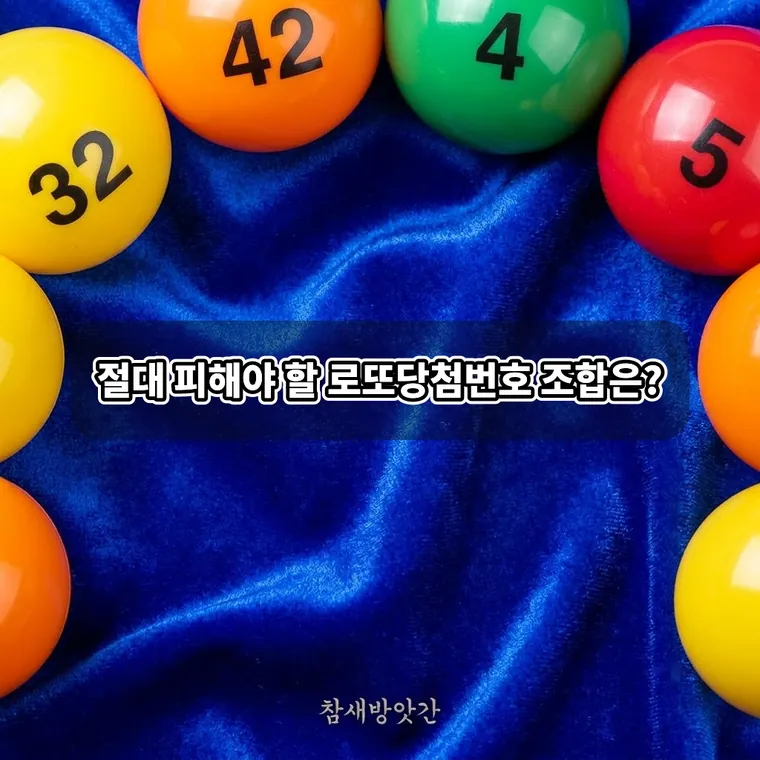
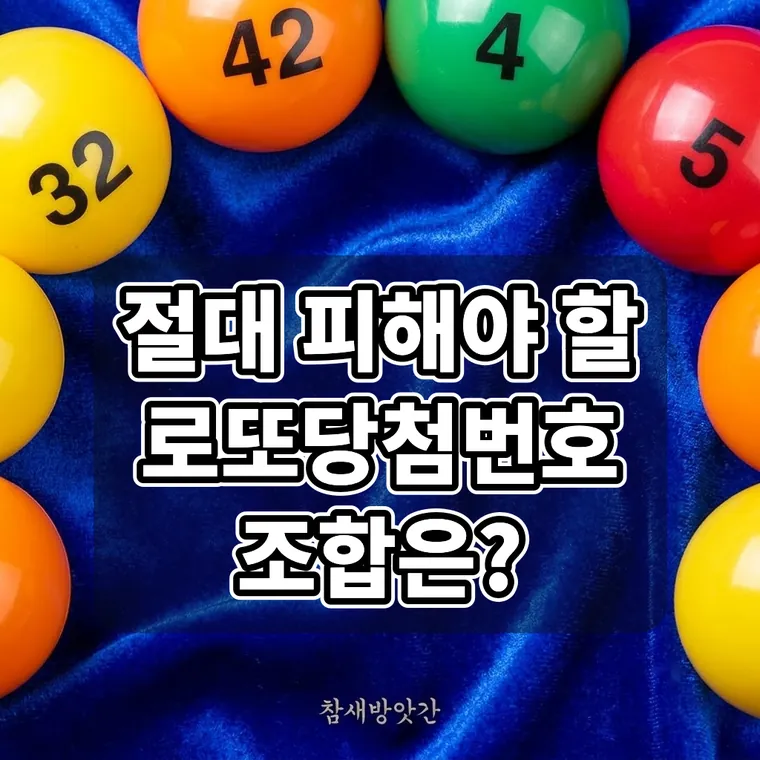
v74

diff --git a/guide-avoid.html b/guide-avoid.html
@@ -17,22 +17,22 @@ gtag('config', 'G-1M0D88PL01');
 <meta name="color-scheme" content="dark">
 <meta name="naver-site-verification" content="7ea0de7682fd50f2771c43ebd5a723369427b225" />
 <title>절대 피해야 할 로또 당첨 번호 조합과 비효율적인 선택 패턴 | 참새방앗간</title>
-<meta name="description" content="로또는 어떤 번호 조합이든 1등 확률이 같지만, 많은 사람이 고르는 조합은 당첨금을 나눠 갖게 됩니다. 1,245회 실제 데이터로 피해야 할 선택 패턴을 정리했습니다.">
+<meta name="description" content="모든 로또 번호 조합의 출현 확률은 같지만, 당첨금을 나눠 갖게 되는 불리한 선택 패턴이 있습니다. 연속 번호, 등차수열, 마킹 모양, 31 이하 숫자 조합을 정리했습니다.">
 <link rel="canonical" href="https://bangatgan.kr/guide-avoid.html">
 <meta property="og:type" content="article">
 <meta property="og:site_name" content="참새방앗간">
 <meta property="og:locale" content="ko_KR">
 <meta property="og:url" content="https://bangatgan.kr/guide-avoid.html">
 <meta property="og:title" content="절대 피해야 할 로또 당첨 번호 조합과 비효율적인 선택 패턴 | 참새방앗간">
-<meta property="og:description" content="로또는 어떤 번호 조합이든 1등 확률이 같지만, 많은 사람이 고르는 조합은 당첨금을 나눠 갖게 됩니다. 1,245회 실제 데이터로 피해야 할 선택 패턴을 정리했습니다.">
+<meta property="og:description" content="모든 로또 번호 조합의 출현 확률은 같지만, 당첨금을 나눠 갖게 되는 불리한 선택 패턴이 있습니다. 연속 번호, 등차수열, 마킹 모양, 31 이하 숫자 조합을 정리했습니다.">
 <meta property="og:image" content="https://bangatgan.kr/images/og-guide-avoid.jpg">
 <meta property="og:image:width" content="1200">
 <meta property="og:image:height" content="630">
 <meta name="twitter:card" content="summary_large_image">
 <link rel="preconnect" href="https://cdn.jsdelivr.net">
 <link rel="stylesheet" href="https://cdn.jsdelivr.net/gh/orioncactus/pretendard@v1.3.9/dist/web/variable/pretendardvariable-dynamic-subset.min.css">
-<link rel="stylesheet" href="assets/style.css?v=81">
-<script type="application/ld+json">{"@context": "https://schema.org", "@type": "FAQPage", "mainEntity": [{"@type": "Question", "name": "로또에서 절대 나오지 않는 번호 조합이 실제로 있나요?", "acceptedAnswer": {"@type": "Answer", "text": "없습니다. 6개 번호 조합은 모두 8,145,060분의 1로 확률이 같습니다. 1,245회 동안 1,2,3,4,5,6이 한 번도 나오지 않았지만, 특정 조합 하나가 1,245회 안에 나올 확률 자체가 약 0.015%라서 이상한 일이 아닙니다. 피해야 할 조합은 나오지 않는 조합이 아니라 당첨되면 나눠 갖는 사람이 많은 조합입니다."}}, {"@type": "Question", "name": "31 이하의 숫자만 고르면 왜 불리하다고 하나요?", "acceptedAnswer": {"@type": "Answer", "text": "생일이나 기념일을 쓰면 1부터 31까지만 고르게 되고, 32부터 45까지가 빠집니다. 31 이하로만 만들 수 있는 조합은 736,281개로 전체의 약 9.0%입니다. 이 사이트 데이터에서 262회부터 이런 회차는 판매액 1,000억원당 1등이 13.2게임으로, 나머지 회차의 12.2게임보다 약 8% 많았습니다. 차이가 작고 표본이 84회뿐이라 단정할 수는 없습니다."}}, {"@type": "Question", "name": "자동과 수동 중 어느 쪽이 당첨에 유리한가요?", "acceptedAnswer": {"@type": "Answer", "text": "당첨 확률은 같습니다. 다만 이 사이트 데이터에서 262회부터 1,245회까지 1등 9,312게임 중 수동은 30.9%였고, 1등이 63게임까지 나온 1128회는 수동이 52게임(82.5%)이었습니다. 수동 번호가 몰린 회차에서 상금을 나눠 갖는 사람이 크게 늘었다는 뜻일 뿐, 어떤 번호가 몰렸는지는 알 수 없습니다."}}, {"@type": "Question", "name": "한 번도 나오지 않은 조합이 다음에 나올 가능성이 높아지나요?", "acceptedAnswer": {"@type": "Answer", "text": "그렇지 않습니다. 로또 추첨은 매회 독립시행이라 지난 기록이 다음 추첨에 영향을 주지 않습니다. 오래 나오지 않았다고 나올 때가 된 것도 아니고, 자주 나왔다고 덜 나올 차례가 된 것도 아닙니다."}}]}</script>
+<link rel="stylesheet" href="assets/style.css?v=84">
+<script type="application/ld+json">{"@context": "https://schema.org", "@type": "FAQPage", "mainEntity": [{"@type": "Question", "name": "로또에서 절대 나오지 않는 번호 조합이 실제 존재하나요?", "acceptedAnswer": {"@type": "Answer", "text": "이론적으로 모든 6개 번호 조합이 추첨될 확률은 약 814만 분의 1로 완전히 동일합니다. 따라서 과학적으로 절대 나오지 않는 번호 조합은 존재하지 않지만, 당첨자가 몰려 상금이 줄어드는 비효율적인 조합은 존재합니다."}}, {"@type": "Question", "name": "수동 선택 시 31 이하의 숫자만 사용하는 것이 왜 불리한가요?", "acceptedAnswer": {"@type": "Answer", "text": "생일이나 기념일을 이용해 번호를 조합하면 32에서 45 사이의 숫자가 배제됩니다. 이 경우 번호의 선택 폭이 좁아질 뿐만 아니라, 많은 사람이 비슷한 번호를 선택해 당첨 시 상금을 나눠 가져야 하는 인원수가 늘어납니다."}}, {"@type": "Question", "name": "자동 번호 추출과 수동 번호 선택 중 어느 쪽이 당첨에 유리한가요?", "acceptedAnswer": {"@type": "Answer", "text": "당첨 확률 자체는 자동과 수동 모두 동일합니다. 다만 수동 선택 시 특정 패턴이나 기하학적 모양으로 마킹하면 중복 당첨 위험이 커지므로, 패턴 없이 균형 있게 조합하거나 자동 번호를 활용하는 것이 상금 유지 측면에서 유리할 수 있습니다."}}, {"@type": "Question", "name": "오랫동안 나오지 않은 번호 조합이 다음 회차에 나올 가능성이 높아지나요?", "acceptedAnswer": {"@type": "Answer", "text": "그렇지 않습니다. 각 회차의 추첨은 이전 회차와 완전히 독립된 확률적 사건이므로, 오랫동안 나오지 않았다고 해서 나올 때가 된 것은 아닙니다. 모든 조합의 확률은 약 814만 분의 1로 같습니다."}}]}</script>
 </head>
 <body data-section="info">
 <div class="wrap">
@@ -40,7 +40,7 @@ gtag('config', 'G-1M0D88PL01');
   <main>
     <h1 class="page-h">절대 피해야 할 로또 당첨 번호 조합과 비효율적인 선택 패턴</h1>
     <div class="pdate">2026.10.13 작성</div>
-    <p class="page-lead">로또는 어떤 조합이든 1등 확률이 8,145,060분의 1로 같습니다. 그래도 피하라는 조합이 있는 이유는 당첨됐을 때 상금을 나눠 갖는 사람이 늘어나기 때문입니다.</p>
+    <p class="page-lead">로또를 구매할 때 많은 사람이 자신만의 숫자나 특정 패턴을 활용해 번호를 선택합니다. 하지만 수학적 확률과 실제 당첨금 수령액 관점에서 볼 때 분명히 불리해지는 번호 선택 유형이 존재합니다.</p>
     <div class="card"><div class="prose">
 
       <figure class="fig">
@@ -48,82 +48,51 @@ gtag('config', 'G-1M0D88PL01');
              alt="피해야 할 로또 당첨번호 조합을 소개하는 안내 이미지">
       </figure>
 
-      <h3>확률은 같고, 달라지는 것은 상금입니다</h3>
-      <p>로또 1등은 6개 번호를 모두 맞힌 게임이 당첨금을 <b>나눠 갖습니다</b>. 같은 번호를 고른 게임이 많으면 한 게임이 받는 돈이 줄어듭니다. 당첨 확률은 그대로이고 상금만 달라집니다.</p>
-      <table class="t">
-        <thead><tr><th>회차</th><th>1등 게임 수</th><th>1게임당 당첨금</th></tr></thead>
-        <tbody>
-          <tr><td>1245회 (2026.10.10)</td><td>10게임</td><td>3,006,515,775원</td></tr>
-          <tr><td>1019회 (2022.06.11)</td><td>50게임</td><td>438,565,140원</td></tr>
-          <tr><td>1128회 (2024.07.13)</td><td><b>63게임</b></td><td><b>419,925,560원</b></td></tr>
-        </tbody>
-      </table>
-      <p>1128회는 1등이 역대 가장 많은 63게임이 나와 1게임당 약 4억 2천만원을 받았습니다. 1245회는 10게임이라 1게임당 30억원이 넘었습니다. 판매액도 회차마다 달라서 이 차이가 전부 나눠 갖는 사람 수 때문은 아닙니다.</p>
+      <p>모든 번호 조합이 출현할 확률은 동일하지만, 당첨되었을 때 수령할 금액과 당첨 가능성에 대한 오해를 줄이기 위해서는 피해야 할 선택 패턴을 정확히 이해하는 것이 중요합니다.</p>
 
-      <div class="callout"><b>모든 조합의 1등 확률은 같습니다.</b><br>
-      어떤 번호를 고르든 <b>8,145,060분의 1</b>입니다. 이 글에서 말하는 "피해야 한다"는 당첨 확률이 아니라 <b>상금을 나눌 위험</b>에 대한 이야기입니다.</div>
+      <h3>확률상 극단적으로 불리한 번호 조합 유형</h3>
+      <p>로또 번호 추출 시스템은 완전한 무작위성을 바탕으로 작동합니다. 그러나 지나치게 편향된 번호 조합은 통계적 분포에서 벗어나거나 타인과 번호가 겹칠 확률을 극대로 높입니다.</p>
 
-      <h3>수동 번호가 몰린 회차에서 1등이 많이 나왔습니다</h3>
-      <p>이 사이트가 가진 데이터로 1등 당첨 게임을 자동, 반자동, 수동으로 나눠 보았습니다. 262회부터 1,245회까지 1등은 모두 9,312게임이고 그중 수동은 2,878게임(30.9%)입니다.</p>
-      <table class="t">
-        <thead><tr><th>구분</th><th>1등 게임 수</th><th>수동</th><th>수동 비율</th></tr></thead>
-        <tbody>
-          <tr><td>262회~1245회 전체</td><td>9,312게임</td><td>2,878게임</td><td>30.9%</td></tr>
-          <tr><td>1019회 (2022.06.11)</td><td>50게임</td><td>42게임</td><td>84.0%</td></tr>
-          <tr><td>1128회 (2024.07.13)</td><td>63게임</td><td>52게임</td><td><b>82.5%</b></td></tr>
-        </tbody>
-      </table>
-      <p>1등이 유난히 많이 나온 회차는 수동 비율이 평균의 두 배 반이 넘었습니다. 사람들이 같은 번호를 직접 골랐다는 흔적으로 볼 수 있습니다. 다만 어떤 번호가 몰렸는지는 공개된 자료가 없어 알 수 없습니다.</p>
+      <h4>연속된 6개 숫자 조합의 실상</h4>
+      <p>1, 2, 3, 4, 5, 6과 같이 연속된 6개의 숫자를 선택하는 것은 이론상 다른 어떤 조합과도 동일한 출현 확률을 가집니다.</p>
+      <p>하지만 이러한 직관적인 연속 조합은 매주 수천 명 이상의 구매자가 동일하게 선택하는 대표적인 번호입니다. 만약 해당 조합이 당첨되더라도 당첨금이 수천 명에게 분할되어 실질적인 수령액이 매우 적어집니다.</p>
 
-      <h3>연속된 숫자와 규칙적인 조합</h3>
-      <p>1, 2, 3, 4, 5, 6처럼 연속된 6개나 7, 14, 21, 28, 35, 42처럼 같은 간격으로 늘어나는 조합은 눈에 잘 띄어서 직접 고르는 사람이 많다고 알려져 있습니다. 이 조합도 확률은 8,145,060분의 1로 같습니다.</p>
-      <p>1,245회 동안 실제로 나온 모양을 세어 보면 이렇습니다.</p>
-      <table class="t">
-        <thead><tr><th>모양</th><th>예시</th><th>1,245회 중 나온 횟수</th></tr></thead>
-        <tbody>
-          <tr><td>3개 이상 연속</td><td>24, 25, 26</td><td>67회 (5.4%)</td></tr>
-          <tr><td>4개 이상 연속</td><td>24, 25, 26, 27</td><td>6회</td></tr>
-          <tr><td>5개 이상 연속</td><td>24, 25, 26, 27, 28</td><td>0회</td></tr>
-          <tr><td>6개가 같은 간격</td><td>7, 14, 21, 28, 35, 42</td><td>0회</td></tr>
-        </tbody>
-      </table>
-      <p>한 번도 안 나왔다는 것은 의미가 없습니다. 특정 조합 하나가 1,245회 안에 나올 확률이 약 0.015%이기 때문입니다. 나오지 않았다고 앞으로 안 나온다는 뜻도, 나올 때가 됐다는 뜻도 아닙니다.</p>
-      <p>끝자리가 같은 번호로만 6개를 고르는 것은 애초에 불가능합니다. 같은 끝자리 번호는 최대 5개(예: 5, 15, 25, 35, 45)뿐이라서, 고를 수 있다면 5개까지입니다.</p>
+      <h4>동일한 일의 자리나 등차수열 패턴</h4>
+      <p>5, 15, 25, 35, 45처럼 끝자리가 같거나 7, 14, 21, 28, 35처럼 일정하게 증가하는 등차수열 조합 역시 피하는 것이 좋습니다.</p>
+      <p>시각적으로 정돈된 패턴은 인지적 편향으로 인해 많은 구매자가 동일하게 마킹하는 경향이 있습니다. 당첨 확률 자체는 동일할지라도 독점적인 당첨금을 확보하기에는 가장 불리한 전략입니다.</p>
 
-      <h3>31 이하 숫자만 고르는 생일 조합</h3>
-      <p>생일과 기념일로 번호를 정하면 1부터 31까지만 쓰게 됩니다. 31 이하의 숫자만으로 만들 수 있는 조합은 <b>736,281개</b>로 전체의 약 9.0%입니다. 1,245회 중 실제로 31 이하만 나온 회차는 108회(8.7%)로 기대치인 약 9.0%와 비슷합니다. 이런 조합이 더 잘 나오거나 덜 나오지는 않습니다.</p>
-      <p>달라지는 쪽은 상금입니다. 262회부터 판매액 1,000억원당 1등 게임 수를 비교하면 이렇습니다.</p>
-      <table class="t">
-        <thead><tr><th>구분</th><th>회차 수</th><th>1,000억원당 1등 게임</th><th>1등 중 수동 비율</th></tr></thead>
-        <tbody>
-          <tr><td>31 이하만 나온 회차</td><td>84회</td><td>13.2게임</td><td>36.9%</td></tr>
-          <tr><td>32 이상이 섞인 회차</td><td>900회</td><td>12.2게임</td><td>30.3%</td></tr>
-        </tbody>
-      </table>
-      <div class="callout"><b>차이는 약 8%로 작습니다.</b><br>
-      31 이하만 나온 회차가 84회뿐이라 우연일 수 있습니다. "생일 숫자는 상금을 조금 더 나눌 수 있다" 정도로만 읽는 것이 맞습니다.</div>
+      <h3>당첨금 분할 위험을 높이는 마킹 패턴</h3>
+      <p>로또 용지에 그리는 시각적 형태나 일상적인 날짜를 기준으로 번호를 고르는 방식은 타인과의 중복 가능성을 극대화합니다.</p>
 
-      <h3>용지 위의 직선과 도형 모양</h3>
-      <p>마킹 용지에 가로줄, 세로줄, 대각선, X자 모양으로 칠하는 방식도 피하라고 흔히 말합니다. 같은 모양을 고르는 사람이 많다는 구매 자료는 공개되어 있지 않아서 이 사이트에서는 확인할 수 없습니다.</p>
-      <p>다만 원리는 같습니다. 같은 번호를 고르는 사람이 많을수록 상금을 나눠 갖습니다. 용지 위의 모양은 번호가 뽑힐 확률과는 아무 관계가 없습니다.</p>
+      <h4>용지 위의 직선 및 도형 모양 마킹</h4>
+      <p>로또 마킹 용지에서 가로 한 줄, 세로 한 줄, 또는 대각선이나 X자 형태로 번호를 선택하는 방식은 피해야 합니다.</p>
+      <p>많은 사람이 무심코 용지의 직관적인 모양을 따라 마킹하기 때문에, 이러한 패턴은 항상 중복 당첨자 수가 압도적으로 많이 발생합니다.</p>
 
-      <h3>자주 하는 오해: 과거 번호와 안 나온 번호</h3>
-      <p>자주 나온 번호가 다음에도 나올 것 같다거나, 오래 안 나온 번호가 나올 때가 됐다는 생각은 맞지 않습니다. 추첨은 매회 독립시행이라 지난 결과가 다음에 영향을 주지 않습니다. 번호별 출현 횟수 차이는 무작위에서 생기는 흔들림이고, 자세한 내용은 로또 번호 통계 글에 정리해 두었습니다.</p>
+      <h4>기념일과 생일 기반의 31 이하 숫자 조합</h4>
+      <p>생년월일이나 기념일을 활용해 번호를 조합할 경우 선택할 수 있는 번호가 1부터 31까지로 제한됩니다.</p>
+      <p>32부터 45까지의 상위 번호가 제외되면 조합의 다양성이 떨어지며, 31 이하의 번호에 수많은 구매자가 몰려 당첨금 분할 위험이 커집니다.</p>
 
-      <h3>상금을 나눌 사람을 줄이는 방법</h3>
-      <p>확률은 바꿀 수 없지만 번호를 고르는 방식은 바꿀 수 있습니다. 1부터 45까지 고르게 걸치고, 31 이하에 몰리지 않게 하고, 규칙적인 모양을 피하는 정도입니다. 번호를 직접 정하기 어렵다면 무작위로 뽑아 주는 번호 생성기나 자동 선택을 쓰는 방법이 있습니다.</p>
-      <p>어느 쪽이든 당첨 확률은 같습니다. 이 글의 내용은 당첨 가능성을 높이는 방법이 아니라, 당첨됐을 때 나눠 갖는 사람이 많아지는 선택을 알아 두자는 것입니다.</p>
+      <h3>로또 번호 선택 시 자주 하는 오해와 올바른 접근</h3>
+      <p>번호를 고를 때 잘못된 통계적 직관에 의존하면 불필요한 고정관념에 갇히기 쉽습니다.</p>
+
+      <h4>과거 당첨 번호와 미출현 번호에 대한 오해</h4>
+      <p>가장 자주 나오는 번호라고 해서 다음 회차에 나올 확률이 높거나, 오랫동안 나오지 않은 번호라고 해서 나올 때가 된 것은 아닙니다.</p>
+      <p>각 회차의 추첨은 이전 회차와 완전히 독립된 확률적 사건이므로, 과거 기록에 과도하게 의미를 부여하는 분석 방식은 지양해야 합니다.</p>
+
+      <h4>당첨금 독점을 고려한 번호 조합 전략</h4>
+      <p>상금 수령액을 극대화하기 위해서는 타인이 잘 선택하지 않는 번호 조합을 구성하는 것이 유리합니다.</p>
+      <p>1부터 45까지의 숫자를 균형 있게 고르고, 특정 시각적 패턴이나 31 이하의 숫자 밀집을 피하는 것이 당첨 시 독점적인 상금을 확보하는 현실적인 방법입니다.</p>
 
       <div class="callout"><b>참고용입니다.</b><br>
-      이 글의 수치는 이 사이트가 가진 1,245회까지의 당첨 데이터로 계산한 값입니다. 로또는 확률 게임이고 어떤 번호 선택도 당첨을 보장하지 않습니다.</div>
+      로또는 확률 게임이며 어떤 번호 선택도 당첨을 보장하지 않습니다.</div>
     </div></div>
     <div class="card faqbox">
       <h2>자주 묻는 질문</h2>
       <div class="prose">
-        <div class="faq"><b>로또에서 절대 나오지 않는 번호 조합이 실제로 있나요?</b><p>없습니다. 6개 번호 조합은 모두 8,145,060분의 1로 확률이 같습니다. 1,245회 동안 1,2,3,4,5,6이 한 번도 나오지 않았지만, 특정 조합 하나가 1,245회 안에 나올 확률 자체가 약 0.015%라서 이상한 일이 아닙니다. 피해야 할 조합은 나오지 않는 조합이 아니라 당첨되면 나눠 갖는 사람이 많은 조합입니다.</p></div>
-        <div class="faq"><b>31 이하의 숫자만 고르면 왜 불리하다고 하나요?</b><p>생일이나 기념일을 쓰면 1부터 31까지만 고르게 되고, 32부터 45까지가 빠집니다. 31 이하로만 만들 수 있는 조합은 736,281개로 전체의 약 9.0%입니다. 이 사이트 데이터에서 262회부터 이런 회차는 판매액 1,000억원당 1등이 13.2게임으로, 나머지 회차의 12.2게임보다 약 8% 많았습니다. 차이가 작고 표본이 84회뿐이라 단정할 수는 없습니다.</p></div>
-        <div class="faq"><b>자동과 수동 중 어느 쪽이 당첨에 유리한가요?</b><p>당첨 확률은 같습니다. 다만 이 사이트 데이터에서 262회부터 1,245회까지 1등 9,312게임 중 수동은 30.9%였고, 1등이 63게임까지 나온 1128회는 수동이 52게임(82.5%)이었습니다. 수동 번호가 몰린 회차에서 상금을 나눠 갖는 사람이 크게 늘었다는 뜻일 뿐, 어떤 번호가 몰렸는지는 알 수 없습니다.</p></div>
-        <div class="faq"><b>한 번도 나오지 않은 조합이 다음에 나올 가능성이 높아지나요?</b><p>그렇지 않습니다. 로또 추첨은 매회 독립시행이라 지난 기록이 다음 추첨에 영향을 주지 않습니다. 오래 나오지 않았다고 나올 때가 된 것도 아니고, 자주 나왔다고 덜 나올 차례가 된 것도 아닙니다.</p></div>
+        <div class="faq"><b>로또에서 절대 나오지 않는 번호 조합이 실제 존재하나요?</b><p>이론적으로 모든 6개 번호 조합이 추첨될 확률은 약 814만 분의 1로 완전히 동일합니다. 따라서 과학적으로 절대 나오지 않는 번호 조합은 존재하지 않지만, 당첨자가 몰려 상금이 줄어드는 비효율적인 조합은 존재합니다.</p></div>
+        <div class="faq"><b>수동 선택 시 31 이하의 숫자만 사용하는 것이 왜 불리한가요?</b><p>생일이나 기념일을 이용해 번호를 조합하면 32에서 45 사이의 숫자가 배제됩니다. 이 경우 번호의 선택 폭이 좁아질 뿐만 아니라, 많은 사람이 비슷한 번호를 선택해 당첨 시 상금을 나눠 가져야 하는 인원수가 늘어납니다.</p></div>
+        <div class="faq"><b>자동 번호 추출과 수동 번호 선택 중 어느 쪽이 당첨에 유리한가요?</b><p>당첨 확률 자체는 자동과 수동 모두 동일합니다. 다만 수동 선택 시 특정 패턴이나 기하학적 모양으로 마킹하면 중복 당첨 위험이 커지므로, 패턴 없이 균형 있게 조합하거나 자동 번호를 활용하는 것이 상금 유지 측면에서 유리할 수 있습니다.</p></div>
+        <div class="faq"><b>오랫동안 나오지 않은 번호 조합이 다음 회차에 나올 가능성이 높아지나요?</b><p>그렇지 않습니다. 각 회차의 추첨은 이전 회차와 완전히 독립된 확률적 사건이므로, 오랫동안 나오지 않았다고 해서 나올 때가 된 것은 아닙니다. 모든 조합의 확률은 약 814만 분의 1로 같습니다.</p></div>
       </div>
     </div>
 
@@ -133,7 +102,7 @@ gtag('config', 'G-1M0D88PL01');
       <div class="next">
       <a href="lotto-gen.html"><b>로또번호 생성기</b><span>무작위로 번호 뽑기</span></a>
       <a href="lotto-stat.html"><b>로또번호 통계</b><span>번호별 출현 횟수 보기</span></a>
-      <a href="lotto.html"><b>로또당첨번호 조회</b><span>회차별 1등 당첨 방식까지</span></a>
+      <a href="lotto.html"><b>로또당첨번호 조회</b><span>회차별 당첨번호 확인</span></a>
       </div>
     </div>
   </main>

diff --git a/assets/site.js b/assets/site.js
@@ -13,7 +13,7 @@ var SECTIONS = [
     id: "money", name: "금융계산기", home: "money.html",
     desc: "월급, 대출, 차량처럼 돈이 걸린 계산",
     items: [
-      { g:"로또", d:"2026-10-13", t:"lotto-gen.html,lotto-stat.html,lotto.html", href:"guide-avoid.html", name:"절대 피해야 할 로또 당첨 번호 조합과 비효율적인 선택 패턴", desc:"확률은 같고, 상금을 나눠 갖는 사람 수가 달라집니다" },
+      { g:"로또", d:"2026-10-13", t:"lotto.html,lotto-gen.html,lotto-stat.html,lotto-my.html,lotto-tax.html", href:"guide-avoid.html", name:"절대 피해야 할 로또 당첨 번호 조합과 비효율적인 선택 패턴", desc:"확률은 같지만 당첨금을 나눠 갖게 되는 선택 패턴" },
       { href: "salary.html",    name: "연봉계산기",    desc: "세금과 4대보험 떼고 월 얼마" },
       { href: "car.html",       name: "차량할부계산기",        desc: "월 납입금과 총 비용" },
       { href: "loan.html",      name: "대출이자계산기",        desc: "상환방식별 월 상환액" },
@@ -140,10 +140,10 @@ var SECTIONS = [
       { g:"부동산", d:"2026-09-08", t:"jeonse.html", href:"info-jeonse.html",  name:"전세 계약할 때 주의사항 총정리: 전입신고 대항력 시점부터 등기부등본 확인법까지", desc:"효력은 다음 날 0시부터" },
       { g:"생활", d:"2026-09-08", t:"age.html", href:"info-age.html",       name:"만 나이 계산법 총정리: 세는나이·연나이 차이점과 술·담배 연나이 예외 기준", desc:"태어나면 0세입니다" },
       { g:"생활", d:"2026-09-08", t:"age.html", href:"info-pension.html",   name:"기초연금 수급 조건 완벽 정리: 소득인정액 계산법부터 부부감액 예방법까지", desc:"재산도 소득으로 환산합니다" },
-      { g:"로또", d:"2026-09-07", t:"lotto.html,lotto-gen.html,lotto-stat.html", href:"guide-odds.html",     name:"로또 1등 확률 계산법: 814만 분의 1 수학적 구조와 조합 원리 분석", desc:"45개 중 6개 고르기" },
-      { g:"로또", d:"2026-09-07", t:"lotto.html,lotto-my.html,lotto-tax.html", href:"guide-prize.html",    name:"로또 1등 당첨금 세금 계산법: 20억 당첨 시 실제 수령하는 실수령액은 얼마일까?", desc:"3억을 넘으면 33%" },
-      { g:"로또", d:"2026-09-07", t:"lotto-gen.html,lotto-stat.html,lotto-my.html", href:"guide-stats.html",    name:"로또 번호 통계 분석: 1,244회 출현 횟수로 보는 수학적 무작위성", desc:"무작위라서 생기는 흔들림" },
-      { g:"로또", d:"2026-09-07", t:"lotto.html,lotto-my.html,lotto-tax.html", href:"guide-claim.html",    name:"로또 당첨금 수령방법 완벽 정리: 금액별 수령 장소와 필수 준비물", desc:"금액에 따라 가는 곳이 다릅니다" }
+      { g:"로또", d:"2026-09-07", t:"lotto.html,lotto-gen.html,lotto-stat.html,lotto-my.html,lotto-tax.html", href:"guide-odds.html",     name:"로또 1등 확률 계산법: 814만 분의 1 수학적 구조와 조합 원리 분석", desc:"45개 중 6개 고르기" },
+      { g:"로또", d:"2026-09-07", t:"lotto.html,lotto-gen.html,lotto-stat.html,lotto-my.html,lotto-tax.html", href:"guide-prize.html",    name:"로또 1등 당첨금 세금 계산법: 20억 당첨 시 실제 수령하는 실수령액은 얼마일까?", desc:"3억을 넘으면 33%" },
+      { g:"로또", d:"2026-09-07", t:"lotto.html,lotto-gen.html,lotto-stat.html,lotto-my.html,lotto-tax.html", href:"guide-stats.html",    name:"로또 번호 통계 분석: 1,244회 출현 횟수로 보는 수학적 무작위성", desc:"무작위라서 생기는 흔들림" },
+      { g:"로또", d:"2026-09-07", t:"lotto.html,lotto-gen.html,lotto-stat.html,lotto-my.html,lotto-tax.html", href:"guide-claim.html",    name:"로또 당첨금 수령방법 완벽 정리: 금액별 수령 장소와 필수 준비물", desc:"금액에 따라 가는 곳이 다릅니다" }
     ]
   }
 ];

diff --git a/info.html b/info.html
@@ -46,7 +46,7 @@ gtag('config', 'G-1M0D88PL01');
         <a class="post" href="guide-avoid.html">
           <div class="pmeta">2026.10.13</div>
           <b>절대 피해야 할 로또 당첨 번호 조합과 비효율적인 선택 패턴</b>
-          <span>로또 1등 확률은 모든 조합이 같습니다. 달라지는 것은 상금을 나눠 갖는 사람 수이고, 1128회는 1등 63게임 중 수동이 52게임이었습니다.</span>
+          <span>모든 번호 조합의 출현 확률은 같지만, 연속 번호·등차수열·마킹 모양·31 이하 숫자 조합은 당첨금을 나눠 갖게 될 위험이 큽니다.</span>
         </a>
         <a class="post" href="info-retire-1y.html">
           <div class="pmeta">2026.10.10</div>

diff --git a/info-lotto.html b/info-lotto.html
@@ -45,7 +45,7 @@ gtag('config', 'G-1M0D88PL01');
         <a class="post" href="guide-avoid.html">
           <div class="pmeta">2026.10.13</div>
           <b>절대 피해야 할 로또 당첨 번호 조합과 비효율적인 선택 패턴</b>
-          <span>로또 1등 확률은 모든 조합이 같습니다. 달라지는 것은 상금을 나눠 갖는 사람 수이고, 1128회는 1등 63게임 중 수동이 52게임이었습니다.</span>
+          <span>모든 번호 조합의 출현 확률은 같지만, 연속 번호·등차수열·마킹 모양·31 이하 숫자 조합은 당첨금을 나눠 갖게 될 위험이 큽니다.</span>
         </a>
         <a class="post" href="guide-odds.html">
           <div class="pmeta">2026.09.07</div>

diff --git a/assets/style.css b/assets/style.css
@@ -122,6 +122,7 @@ table.t .c{font-size:11.5px;color:var(--dim);font-weight:500}
 .prose{font-size:15px;line-height:1.85;color:var(--ink2)}
 .prose h3{font-size:18px;line-height:1.45;font-weight:800;color:#0E1320;background-color:#9BE564;background-image:linear-gradient(90deg,rgba(255,255,255,.22),rgba(255,255,255,0));border-radius:10px;margin:38px 0 14px;padding:11px 16px}
 .prose h3:first-child{margin-top:0}
+.prose h4{font-size:16.5px;line-height:1.5;font-weight:800;color:#E3B75B;margin:26px 0 8px}
 .prose p{margin:0 0 14px}
 .prose ul{margin:0 0 14px;padding-left:19px}
 .prose li{margin-bottom:7px}
